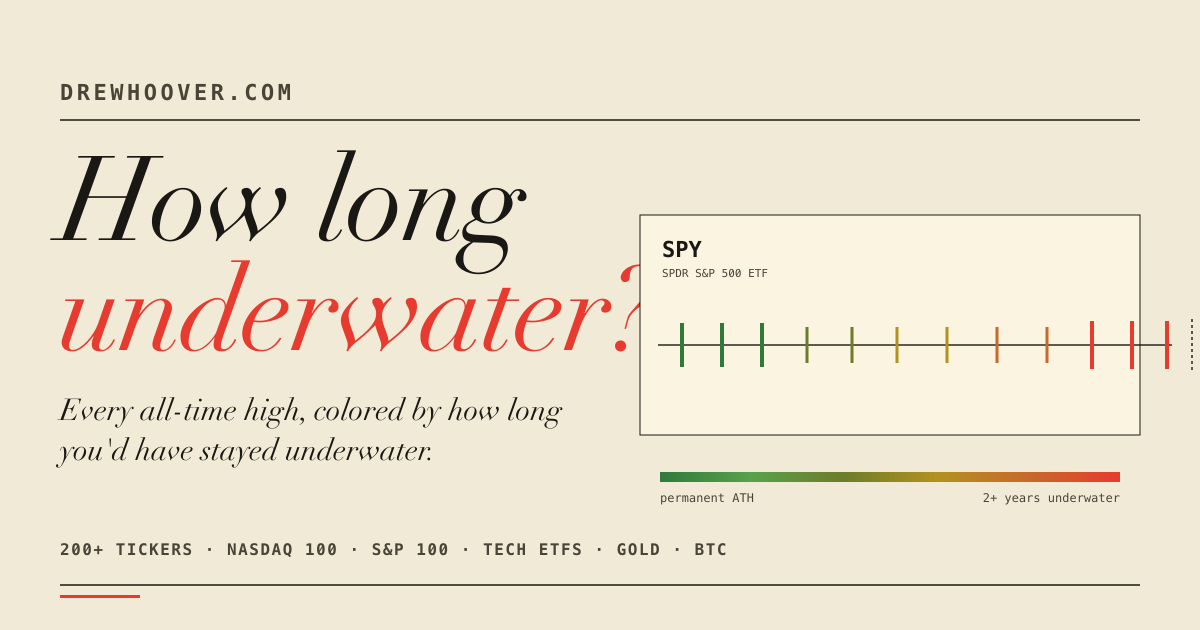
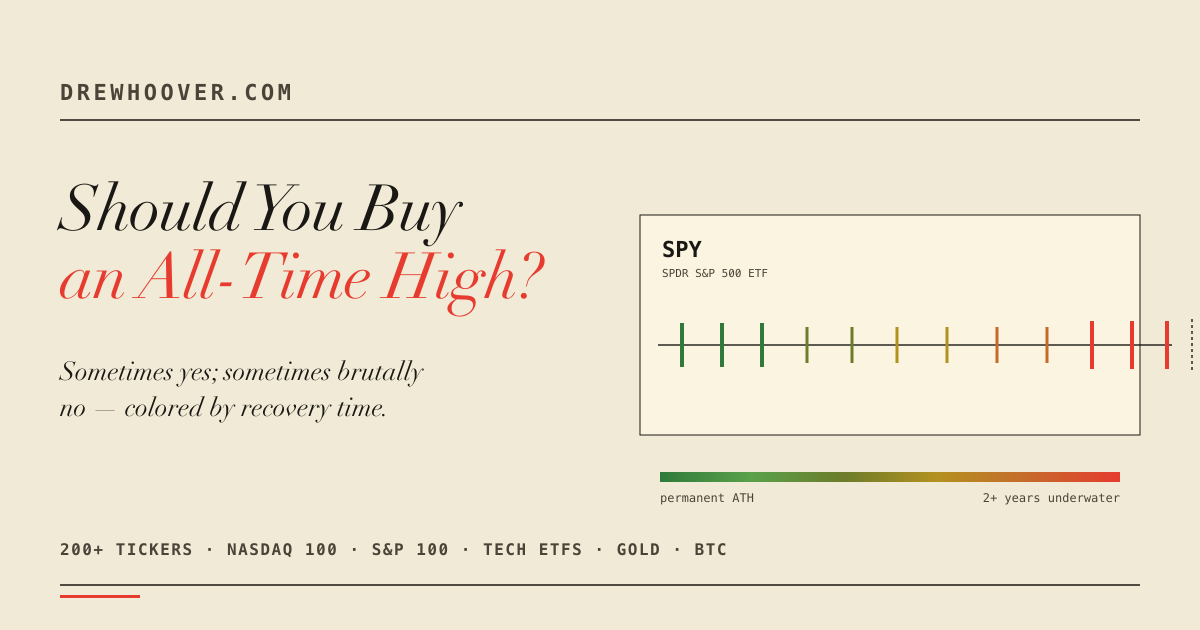
Rebrand to "Should You Buy an All-Time High?"
- New Chicago-cased title across HTML <title>, OG/Twitter tags,
  masthead, README, and the drewhoover.com project card.
- Regenerate OG image with the new headline + subhead ("Sometimes
  yes; sometimes brutally no — colored by recovery time.").
- Replace the lede paragraph with a question/answer framing.
- Replace 4 sort options (featured / endurance / most-unbroken /
  at-ATH) with 3 ATH-count-based sorts the user requested:
    1. most all-time highs (default; athCount in window)
    2. most unbroken all-time highs (permAthCount in window)
    3. most all-time highs per year (athCount / years-in-window)
  The /yr metric divides by each ticker's actual history length
  inside the window, so a 5-year-old ETF with 80 ATHs can
  outscore a 30-year-old name with 600 (DRAM tops the list).
- Row display rotates the highlighted number per active sort and
  caps it with the other two facts.
- Drop the FEATURED ticker list and ATH-endurance helper now that
  neither is referenced.

Changed region(s): [[0.0308, 0.2413, 0.5242, 0.6032], [0.0308, 0.6333, 0.4625, 0.754], [0.4933, 0.4222, 0.5242, 0.4524]]

diff --git a/src/App.jsx b/src/App.jsx
@@ -2,7 +2,7 @@ import React, { useEffect, useLayoutEffect, useMemo, useRef, useState } from 're
 import {
   athLevels, colorByTime, COLOR,
   AXIS_END_MS, AXIS_YEARS, AXIS_INSET_FRAC, dateToAxis,
-  permEnduranceYears,
+  windowedAthStats,
 } from './chart-utils.js'
 
 function formatTimeSince(dateStr) {
@@ -38,18 +38,6 @@ function formatAnnual(level) {
 }
 
 const BASE = import.meta.env.BASE_URL
-
-// Default "featured" surface: long-history names that anchor the chart and
-// give scrollers an immediate read on the time-axis story. TSLA is in here
-// because its red, never-recovered ATH bar is funny.
-const FEATURED = [
-  'SPY', 'QQQ',
-  'NVDA', 'AAPL', 'MSFT', 'AMZN', 'GOOG', 'META',
-  'TSLA',
-  'SMH', 'SOXQ',
-  'BTC-USD',
-]
-const FEATURED_RANK = new Map(FEATURED.map((s, i) => [s, i]))
 
 // ─────────────────────────────────────────────────────────────
 // Top-level: loads index.json, then fetches every ticker's
@@ -112,22 +100,30 @@ export default function App() {
 function Mast() {
   return (
     <header className="mast">
-      <div className="mast-title">How long <em>underwater?</em></div>
-      <div className="mast-sub">every all-time high, colored by how long you'd have stayed underwater</div>
+      <div className="mast-title">Should You Buy <em>an All-Time High?</em></div>
+      <div className="mast-sub">every closing all-time high, colored by how long buyers stayed underwater</div>
     </header>
   )
 }
 
-// Sort key → sign multiplier. -1 = descending (default); 1 = ascending
-// (for "at ATH" we want the smallest pctOffAth first).
-const SORT_DIR = {
-  permAthCount: -1,
-  pctOffAth: 1,
+// All sort options pull from windowedAthStats and rank descending.
+function rowMetric(t, sortKey) {
+  const w = windowedAthStats(t)
+  if (sortKey === 'permCount') {
+    return { value: w.permCount, big: w.permCount.toLocaleString('en-US'), suffix: 'unbroken',
+      cap: `${w.athCount.toLocaleString('en-US')} ATHs · ${w.athsPerYear.toFixed(1)}/yr` }
+  }
+  if (sortKey === 'athsPerYear') {
+    return { value: w.athsPerYear, big: w.athsPerYear.toFixed(1), suffix: '/yr',
+      cap: `${w.athCount.toLocaleString('en-US')} ATHs · ${w.permCount} unbroken` }
+  }
+  return { value: w.athCount, big: w.athCount.toLocaleString('en-US'), suffix: 'ATHs',
+    cap: `${w.permCount} unbroken · ${w.athsPerYear.toFixed(1)}/yr` }
 }
 
 function Leaderboard({ tickers, generatedAt }) {
   const [filter, setFilter] = useState('all')
-  const [sortKey, setSortKey] = useState('featured')
+  const [sortKey, setSortKey] = useState('athCount')
   const [chartEl, setChartEl] = useState(null)
   const [chartBounds, setChartBounds] = useState(null)
 
@@ -154,30 +150,18 @@ function Leaderboard({ tickers, generatedAt }) {
 
   const sorted = useMemo(() => {
     const arr = [...filtered]
-    if (sortKey === 'featured') {
-      arr.sort((a, b) => {
-        const A = FEATURED_RANK.has(a.symbol) ? FEATURED_RANK.get(a.symbol) : Infinity
-        const B = FEATURED_RANK.has(b.symbol) ? FEATURED_RANK.get(b.symbol) : Infinity
-        if (A !== B) return A - B
-        return permEnduranceYears(b).totalYears - permEnduranceYears(a).totalYears
-      })
-    } else if (sortKey === 'endurance') {
-      arr.sort((a, b) => permEnduranceYears(b).totalYears - permEnduranceYears(a).totalYears)
-    } else {
-      const dir = SORT_DIR[sortKey] ?? -1
-      arr.sort((a, b) => dir * ((a.stats[sortKey] ?? 0) - (b.stats[sortKey] ?? 0)))
-    }
+    arr.sort((a, b) => rowMetric(b, sortKey).value - rowMetric(a, sortKey).value)
     return arr
   }, [filtered, sortKey])
 
-  const enduranceMax = useMemo(() => {
+  const metricMax = useMemo(() => {
     let max = 0
     for (const t of sorted) {
-      const e = permEnduranceYears(t).totalYears
-      if (e > max) max = e
+      const v = rowMetric(t, sortKey).value
+      if (v > max) max = v
     }
     return max
-  }, [sorted])
+  }, [sorted, sortKey])
 
   return (
     <main>
@@ -186,9 +170,9 @@ function Leaderboard({ tickers, generatedAt }) {
 
       <section className="lede-row">
         <p className="lede">
-          Every closing-price all-time high in {tickers.length} tickers, plotted on a shared {AXIS_YEARS}-year timeline.
-          Green ticks were never undercut — those are the buys-of-a-lifetime.
-          Red ticks left buyers underwater for years; the dot-com cluster around 2000 should be obvious.
+          Sometimes yes — green ticks below were never undercut, so a buyer at that peak got in at a permanent floor.
+          Sometimes brutally no — red ticks left buyers underwater for years (the 2000 dot-com cluster is hard to miss).
+          Every closing-price all-time high in {tickers.length} tickers, on a shared {AXIS_YEARS}-year timeline.
           Tap or hover any row to scrub the ladder.
         </p>
         <Legend />
@@ -208,10 +192,9 @@ function Leaderboard({ tickers, generatedAt }) {
         <div className="seg seg--right">
           <span className="seg-label">sort</span>
           {[
-            ['featured', 'featured'],
-            ['endurance', 'ATH endurance'],
-            ['permAthCount', 'most ATHs never undercut'],
-            ['pctOffAth', 'at ATH'],
+            ['athCount', 'most all-time highs'],
+            ['permCount', 'most unbroken all-time highs'],
+            ['athsPerYear', 'most all-time highs per year'],
           ].map(([v, l]) => (
             <button key={v} className={`seg-btn ${sortKey === v ? 'is-active' : ''}`} onClick={() => setSortKey(v)}>
               {l}
@@ -224,7 +207,7 @@ function Leaderboard({ tickers, generatedAt }) {
         {sorted.map((t, i) => (
           <Row key={t.symbol} ticker={t} rank={i + 1}
             chartProbeRef={i === 0 ? setChartEl : null}
-            enduranceMax={enduranceMax} />
+            sortKey={sortKey} metricMax={metricMax} />
         ))}
       </ol>
 
@@ -267,7 +250,7 @@ function Legend() {
 // One leaderboard row: rank + symbol/name + scrubbable barcode +
 // permanent-share bar + drawdown indicator.
 // ─────────────────────────────────────────────────────────────
-function Row({ ticker, rank, chartProbeRef, enduranceMax }) {
+function Row({ ticker, rank, chartProbeRef, sortKey, metricMax }) {
   const levels = useMemo(
     () => athLevels(ticker).filter(l => dateToAxis(l.date) >= 0),
     [ticker],
@@ -302,10 +285,8 @@ function Row({ ticker, rank, chartProbeRef, enduranceMax }) {
   }
 
   const active = hover?.a || null
-  const endurance = useMemo(() => permEnduranceYears(ticker), [ticker])
-  const enduranceBarPct = enduranceMax > 0
-    ? Math.min(100, (endurance.totalYears / enduranceMax) * 100)
-    : 0
+  const metric = rowMetric(ticker, sortKey)
+  const barPct = metricMax > 0 ? Math.min(100, (metric.value / metricMax) * 100) : 0
 
   return (
     <li className="row">
@@ -365,19 +346,11 @@ function Row({ ticker, rank, chartProbeRef, enduranceMax }) {
       <div className="row-pct">
         <div className="pct-bar">
           <div className="pct-track">
-            <div className="pct-fill" style={{ width: `${enduranceBarPct}%` }} />
+            <div className="pct-fill" style={{ width: `${barPct}%` }} />
           </div>
-          <span className="pct-num">
-            {endurance.totalYears >= 1
-              ? `${Math.round(endurance.totalYears).toLocaleString('en-US')}y`
-              : '—'}
-          </span>
+          <span className="pct-num">{metric.big} <span className="pct-suffix">{metric.suffix}</span></span>
         </div>
-        <div className="pct-cap">
-          {endurance.count > 0
-            ? `${endurance.count} unbroken ATH${endurance.count === 1 ? '' : 's'} · ${endurance.avgYears.toFixed(1)}y avg`
-            : 'no unbroken ATHs in window'}
-        </div>
+        <div className="pct-cap">{metric.cap}</div>
       </div>
     </li>
   )
@@ -468,10 +441,11 @@ function Methodology({ generatedAt, tickerCount }) {
           few flavors of bitcoin. Daily prices are <strong>split- and dividend-adjusted closes</strong> from Yahoo Finance.
         </li>
         <li>
-          A close is a <strong>permanent floor</strong> if no later close was at-or-below it.
-          The "ATH endurance" column <em>sums</em> the ages of every still-standing ATH that
-          falls inside the visible window — so a stock with one ancient unbroken peak from
-          before the window doesn't beat a name whose dozens of recent peaks have all held.
+          A close is a <strong>permanent floor</strong> if no later close was at-or-below it. Sorts:
+          "most all-time highs" by total ATH count in the visible window;
+          "most unbroken" by permanent-floor count; and
+          "most all-time highs per year" by count divided by the ticker's years of history in the window
+          (so a 4-year-old ETF with 80 ATHs can outscore a 30-year-old name with 600).
         </li>
         <li>
           Every row shares the same horizontal axis: the last {AXIS_YEARS} years, ending today (dashed vertical line).

diff --git a/index.html b/index.html
@@ -3,8 +3,8 @@
   <head>
     <meta charset="UTF-8" />
     <meta name="viewport" content="width=device-width, initial-scale=1" />
-    <title>How long underwater? — every all-time high, colored by recovery time</title>
-    <meta name="description" content="Every closing-price all-time high for 200+ tickers, each on its own log-price axis, colored by how many trading days the price stayed at-or-below it afterward. Hover any row to scrub the ladder of peaks." />
+    <title>Should You Buy an All-Time High? — every closing ATH, colored by recovery time</title>
+    <meta name="description" content="Every closing-price all-time high for 200+ tickers, on a shared 30-year timeline, colored by how many trading days the price stayed at-or-below it afterward. Sometimes yes; sometimes brutally no." />
 
     <link rel="icon" type="image/svg+xml" href="/how-long-underwater/favicon.svg" />
     <link rel="icon" type="image/png" sizes="32x32" href="/how-long-underwater/favicon-32.png" />
@@ -12,9 +12,9 @@
     <link rel="apple-touch-icon" sizes="180x180" href="/how-long-underwater/apple-touch-icon.png" />
 
     <meta property="og:type" content="website" />
-    <meta property="og:site_name" content="How long underwater?" />
-    <meta property="og:title" content="How long underwater? — every ATH, colored by recovery time" />
-    <meta property="og:description" content="Every closing-price all-time high in 200+ tickers, each on its own log-price axis, colored by how long the price stayed underwater. Nasdaq 100 + S&P 100, tech ETFs, gold, BTC." />
+    <meta property="og:site_name" content="Should You Buy an All-Time High?" />
+    <meta property="og:title" content="Should You Buy an All-Time High?" />
+    <meta property="og:description" content="Every closing-price all-time high in 200+ tickers, plotted on a shared 30-year timeline and colored by how long the price stayed underwater afterward. Green = bought the floor; red = years underwater." />
     <meta property="og:url" content="https://drewhoover.com/how-long-underwater/" />
     <meta property="og:image" content="https://drewhoover.com/how-long-underwater/og.png" />
     <meta property="og:image:width" content="1200" />
@@ -22,7 +22,7 @@
     <meta property="og:image:alt" content="A stylized leaderboard row of all-time-high ticks, colored from green (never undercut) through amber to deep red (a decade underwater)." />
 
     <meta name="twitter:card" content="summary_large_image" />
-    <meta name="twitter:title" content="How long underwater? — every ATH, colored by recovery time" />
+    <meta name="twitter:title" content="Should You Buy an All-Time High?" />
     <meta name="twitter:description" content="Every closing-price all-time high in 200+ tickers, colored by how long the price stayed underwater afterward." />
     <meta name="twitter:image" content="https://drewhoover.com/how-long-underwater/og.png" />
 

diff --git a/src/chart-utils.js b/src/chart-utils.js
@@ -29,31 +29,27 @@ export function athLevels(t) {
 // background timeline need this fraction to line up.
 export const AXIS_INSET_FRAC = 12 / 840
 
-// "ATH endurance" — total ATH-years of still-standing peaks that sit inside
-// the visible window. A stock with one ancient unbroken peak from 40 years
-// ago contributes 0; a stock with 40 unbroken peaks averaging 20 years old
-// contributes ~800. Cached per ticker reference.
-const _enduranceCache = new WeakMap()
-export function permEnduranceYears(t) {
-  const cached = _enduranceCache.get(t)
+// Per-ticker stats restricted to the visible window. Cached per ticker.
+const _windowedCache = new WeakMap()
+export function windowedAthStats(t) {
+  const cached = _windowedCache.get(t)
   if (cached) return cached
-  let totalDays = 0
-  let count = 0
-  for (let k = 0; k < t.athRecov.length; k++) {
-    if (t.athRecov[k] != null) continue
-    const dateStr = t.dates[t.athIdx[k]]
-    const frac = dateToAxis(dateStr)
+  let athCount = 0
+  let permCount = 0
+  for (let k = 0; k < t.athIdx.length; k++) {
+    const frac = dateToAxis(t.dates[t.athIdx[k]])
     if (frac < 0 || frac > 1) continue
-    totalDays += (AXIS_END_MS - Date.parse(dateStr)) / 86400000
-    count++
+    athCount++
+    if (t.athRecov[k] == null) permCount++
   }
-  const totalYears = totalDays / 365.25
-  const result = {
-    totalYears,
-    count,
-    avgYears: count > 0 ? totalYears / count : 0,
-  }
-  _enduranceCache.set(t, result)
+  // Years of history the ticker actually has inside the window. A 5-year-old
+  // ETF gets credited with 5 years (not 30), so ATHs-per-year is honest.
+  const firstMs = Date.parse(t.dates[0])
+  const effectiveStartMs = Math.max(AXIS_START_MS, firstMs)
+  const yearsInWindow = Math.max(0.25, (AXIS_END_MS - effectiveStartMs) / (365.25 * 86400000))
+  const athsPerYear = athCount / yearsInWindow
+  const result = { athCount, permCount, athsPerYear, yearsInWindow }
+  _windowedCache.set(t, result)
   return result
 }
 

diff --git a/src/styles.css b/src/styles.css
@@ -175,6 +175,7 @@ main { max-width: 1320px; margin: 0 auto; padding: 36px 32px 80px; position: rel
   background: var(--red);
 }
 .pct-num { font-weight: 700; color: var(--ink); font-size: 12px; }
+.pct-suffix { font-weight: 400; color: var(--ink-soft); font-size: 10px; margin-left: 2px; }
 .pct-cap { margin-top: 3px; }
 
 /* ─── Tooltip ──────────────────────────────────────────────── */

diff --git a/README.md b/README.md
@@ -1,8 +1,8 @@
-# How long underwater?
+# Should You Buy an All-Time High?
 
-Every closing-price all-time high for 200+ tickers, each on its own
-per-ticker log-price axis, colored by **how many trading days the price
-stayed at-or-below it afterward**.
+Every closing-price all-time high for 200+ tickers, plotted on a shared
+30-year timeline, colored by **how many trading days the price stayed
+at-or-below it afterward**.
 
 - Green ticks → permanent ATH, never undercut (the buys-of-a-lifetime)
 - Olive → a brief blip below, recovered quickly
